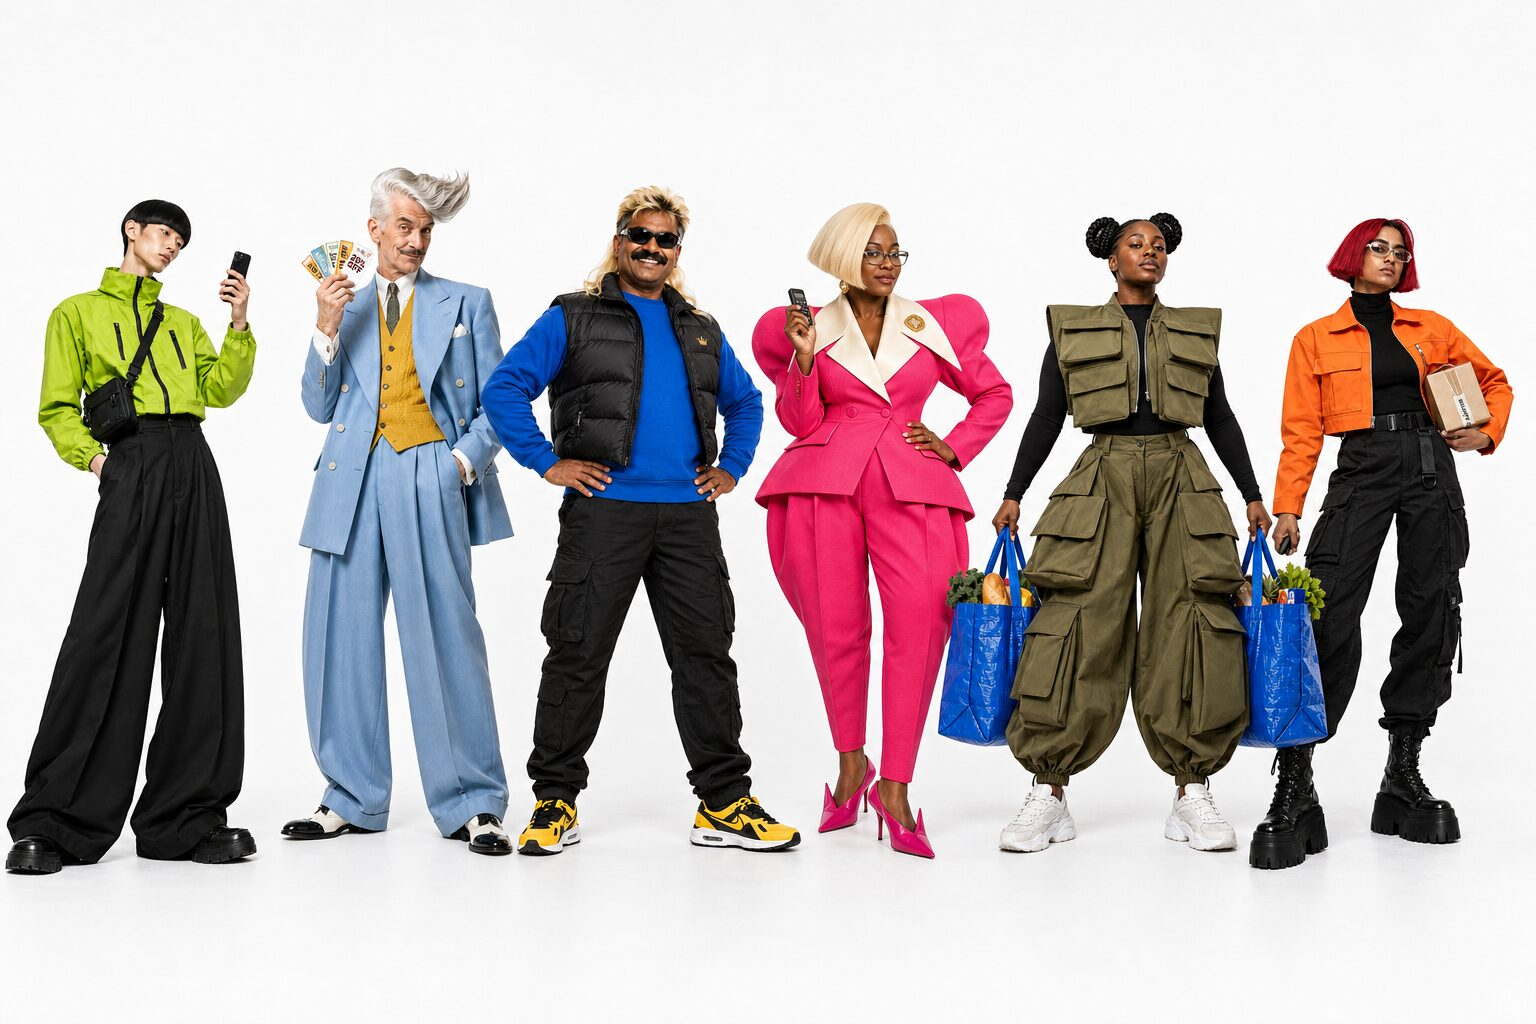
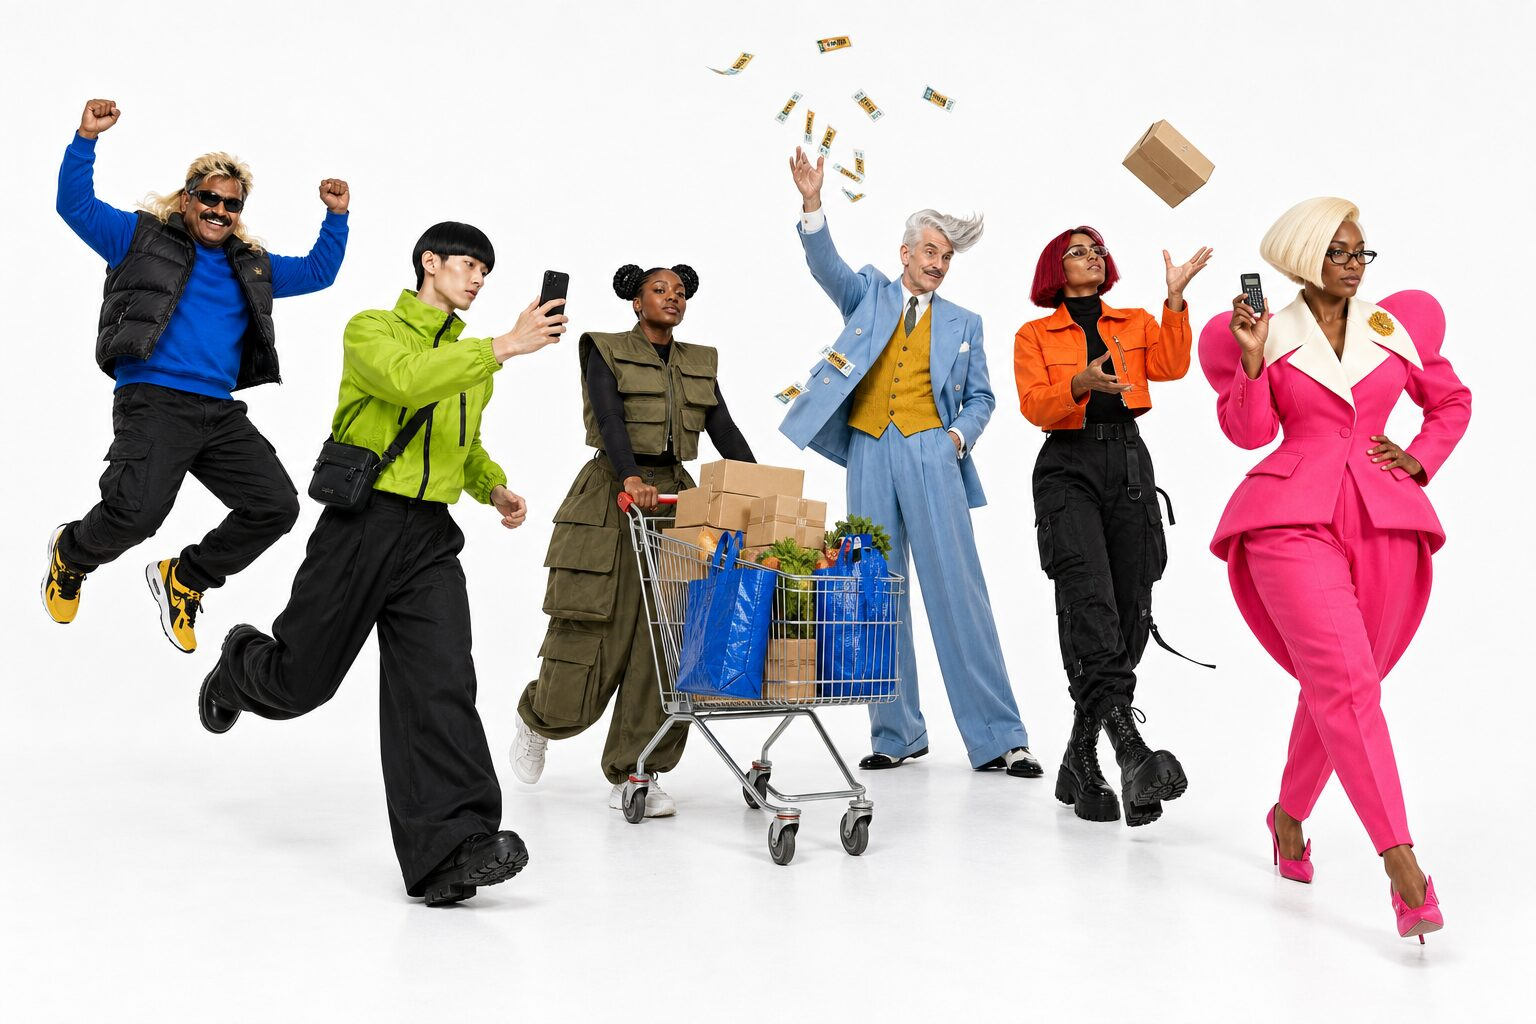
Show the crew in action on the welcome card
Each character doing their own thing: the Boss jumping, the Scout
running, the Hauler with a trolley, the Insider throwing vouchers, the
Fixer tossing a parcel and the Negotiator strutting. Shown whole (3:2).

Claude-Session: https://claude.ai/code/session_01TySN1ZzuS6jFVeyJv1ZkY6

diff --git a/src/proto/crew-art.css b/src/proto/crew-art.css
@@ -24,7 +24,7 @@
 }
 
 /* Welcome card: the crew together. */
-.ob-crew { display: block; width: calc(100% + 60px); max-width: none; margin: -30px -30px 4px; aspect-ratio: 16 / 9; object-fit: cover; object-position: 50% 40%; background: #fff; border-bottom: 1px solid var(--k-line, #eee); }
+.ob-crew { display: block; width: calc(100% + 60px); max-width: none; margin: -30px -30px 4px; aspect-ratio: 3 / 2; object-fit: cover; object-position: 50% 50%; background: #fff; border-bottom: 1px solid var(--k-line, #eee); }
 
 /* A short note with a character, where a screen or list has nothing yet. */
 .crew-note { display: flex; align-items: center; gap: 16px; padding: 8px 0; }
